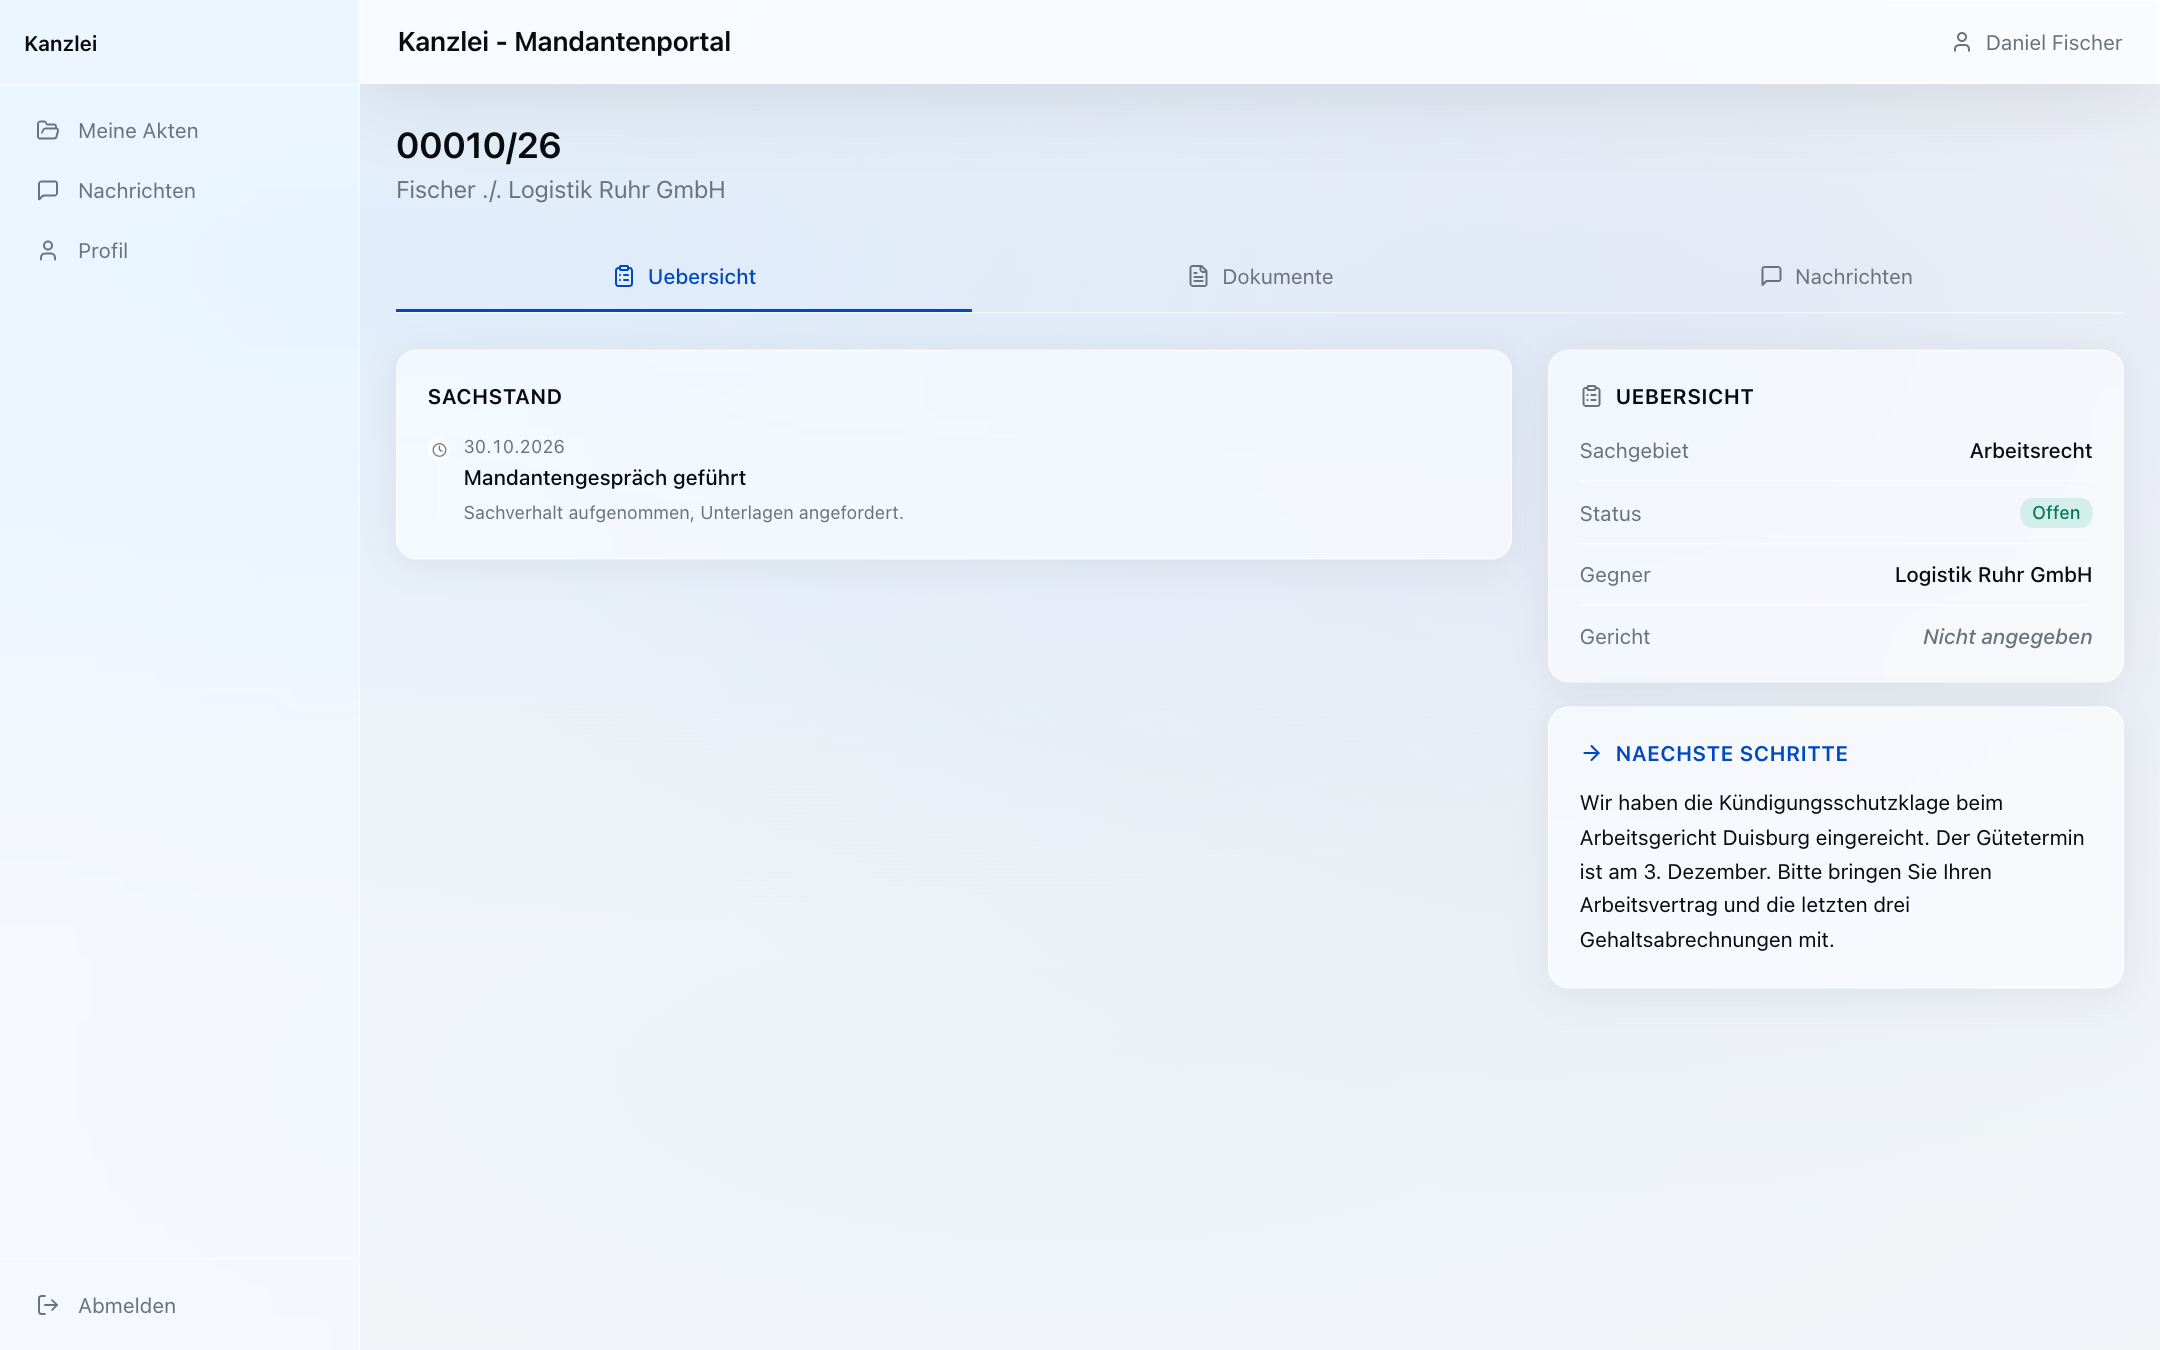
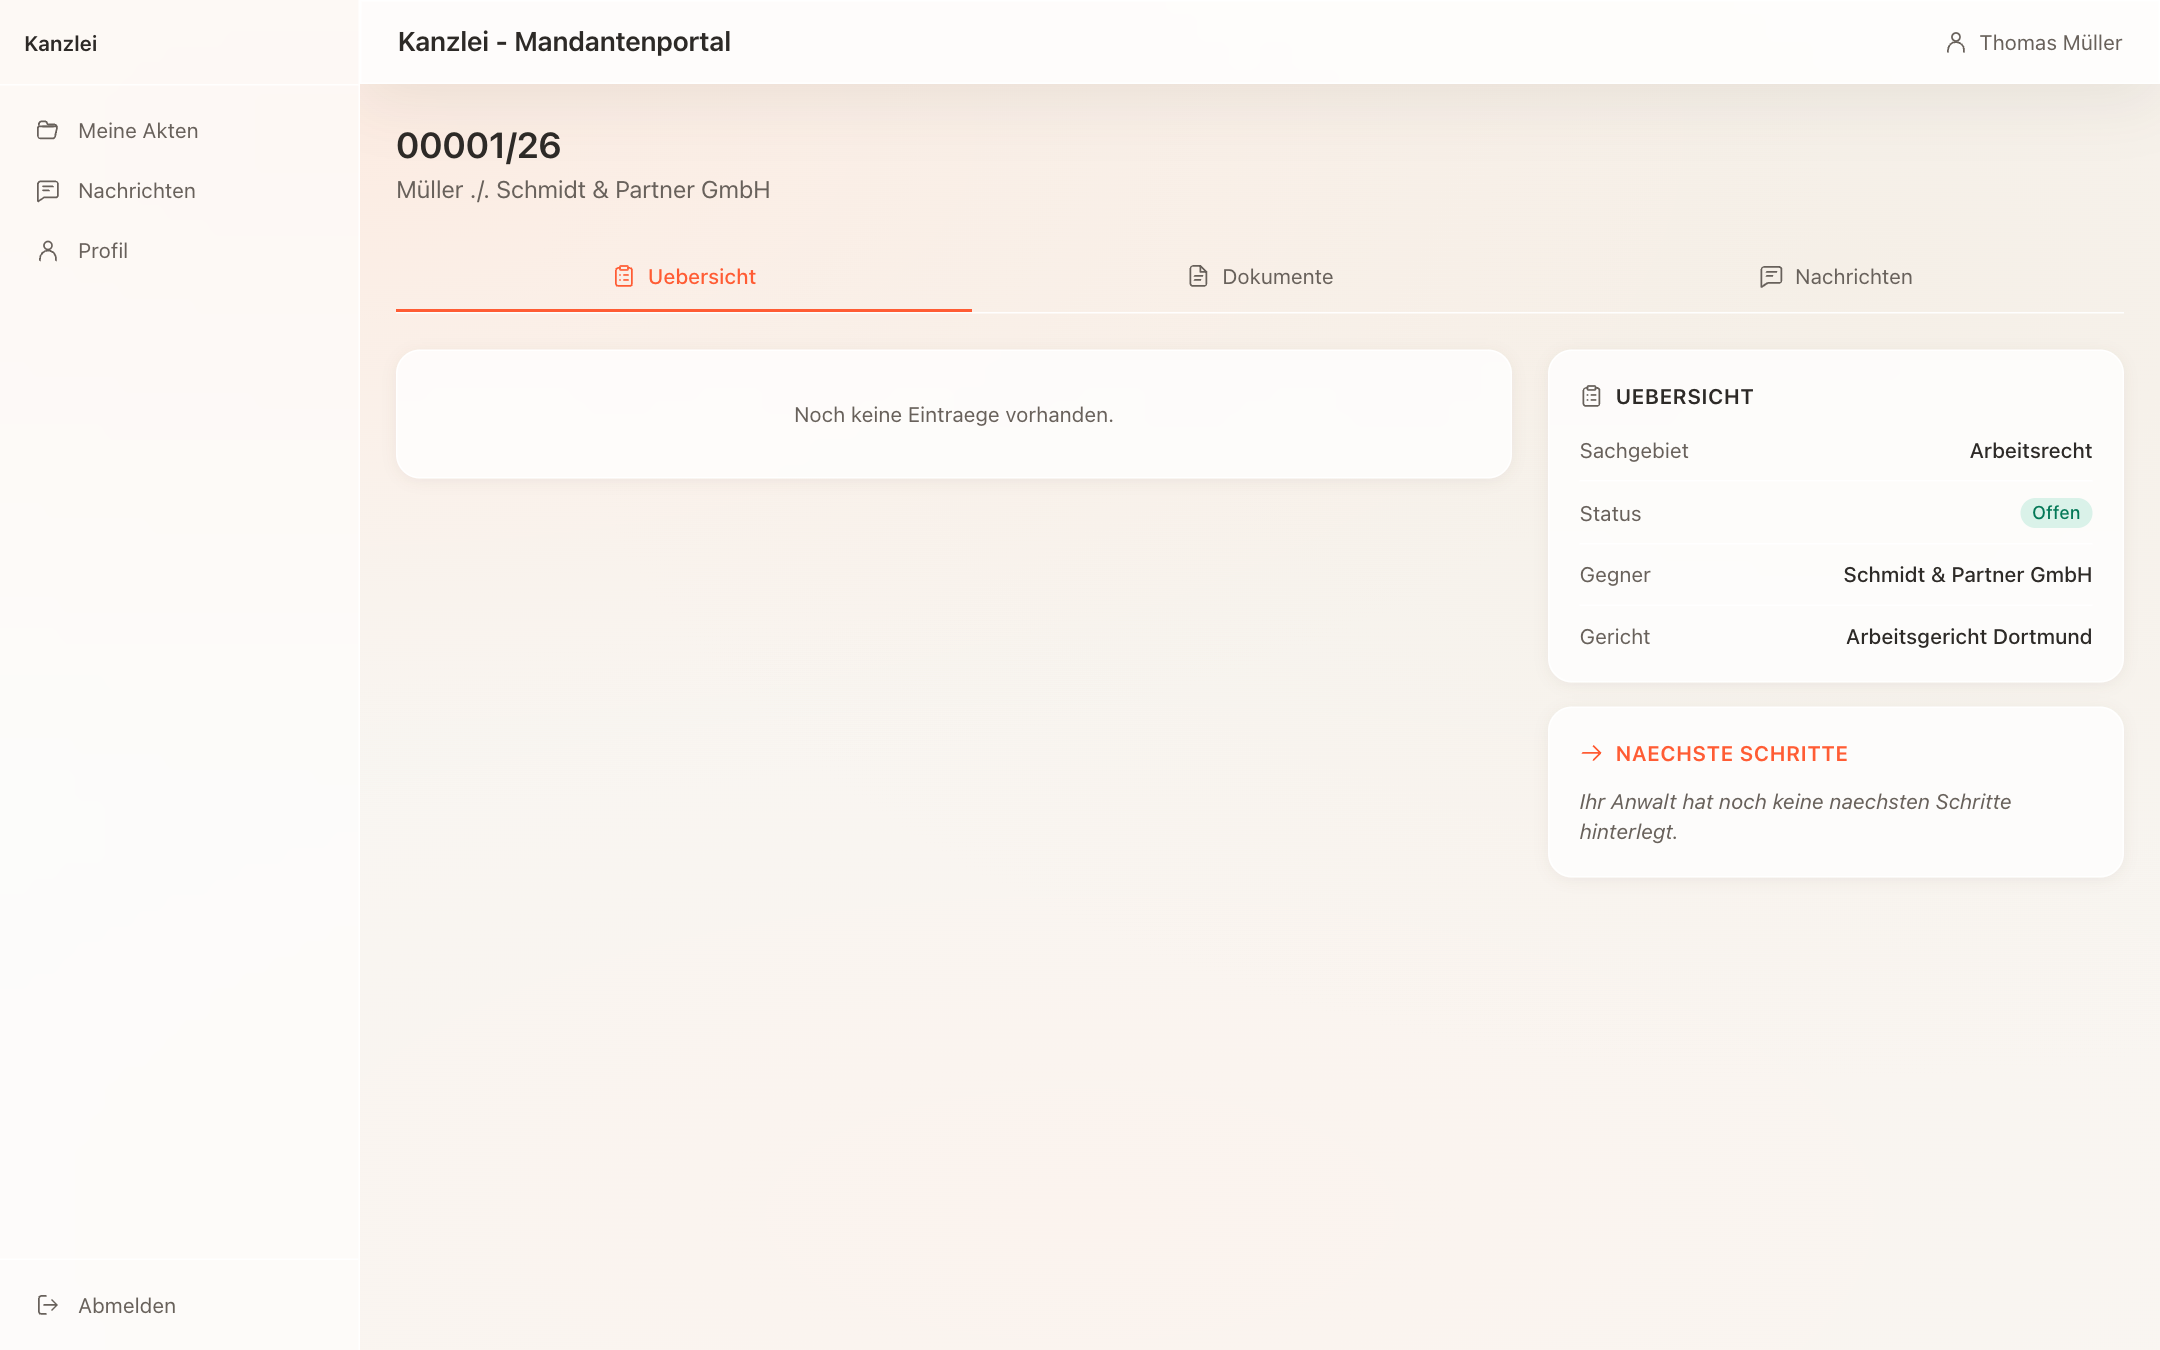
fix: keine Konsolenfehler mehr bei Anmeldung, Dashboard und Akte; Portal-Screenshot
- ThemeProvider fragt die gespeicherte Theme-Einstellung erst in der
  Kanzleioberfläche ab (pfadabhängig, auch nach Anmeldung ohne Neuladen);
  auf /login und im Portal entfiel ein 401/403 je Seitenaufruf.
- /api/gamification/dashboard antwortet bei abgeschalteter Gamification mit
  { enabled: false } statt 404; das Quest-Widget rendert dann nichts.
- Akten-Timer: Der Effekt hing am Session-Objekt, dessen Identität sich bei
  jedem Abgleich ändert – das stoppte den Timer vorzeitig, obwohl man noch in
  der Akte war. Jetzt an der Benutzer-ID; gestoppt wird nur ein Timer, den die
  Akte selbst gestartet hat (vorher 404 beim Verlassen).
- docs/screenshots/portal-akte.png neu (Mandantenkonto über den echten
  Einladungsablauf in der Demo-Datenbank).

diff --git a/src/components/akten/akte-timer-bridge.tsx b/src/components/akten/akte-timer-bridge.tsx
@@ -1,6 +1,6 @@
 "use client";
 
-import { useEffect, useRef } from "react";
+import { useEffect } from "react";
 import { useSession } from "next-auth/react";
 
 interface AkteTimerBridgeProps {
@@ -19,35 +19,40 @@ interface AkteTimerBridgeProps {
  */
 export function AkteTimerBridge({ akteId }: AkteTimerBridgeProps) {
   const { data: session } = useSession();
-  const startedRef = useRef(false);
+  // Stable dependency: the session object changes identity on every refetch,
+  // which used to run the cleanup (stopping the timer) while still in the Akte.
+  const userId = session?.user?.id;
 
   useEffect(() => {
-    // Only fire once per mount, and only if authenticated
-    if (!session?.user || startedRef.current) return;
-    startedRef.current = true;
+    if (!userId) return;
 
-    // Fire-and-forget: start timer without awaiting
-    fetch("/api/finanzen/zeiterfassung/timer", {
+    // Fire-and-forget start; remember whether this bridge actually started a
+    // timer, so leaving the Akte never tries to stop a timer that does not
+    // exist (that ended in a 404 in the browser console).
+    const gestartet = fetch("/api/finanzen/zeiterfassung/timer", {
       method: "POST",
       headers: { "Content-Type": "application/json" },
       body: JSON.stringify({ akteId }),
-    }).catch(() => {
-      // Silently ignore errors -- timer start is best-effort
-    });
+    })
+      .then((r) => r.ok)
+      .catch(() => false);
 
     // Stop timer when leaving the Akte (unmount)
     return () => {
-      fetch("/api/finanzen/zeiterfassung/timer", {
-        method: "PATCH",
-        headers: { "Content-Type": "application/json" },
-        body: JSON.stringify({}),
-        // keepalive ensures the request completes even during page navigation
-        keepalive: true,
-      }).catch(() => {
-        // Best-effort stop
+      void gestartet.then((ok) => {
+        if (!ok) return;
+        fetch("/api/finanzen/zeiterfassung/timer", {
+          method: "PATCH",
+          headers: { "Content-Type": "application/json" },
+          body: JSON.stringify({}),
+          // keepalive ensures the request completes even during page navigation
+          keepalive: true,
+        }).catch(() => {
+          // Best-effort stop
+        });
       });
     };
-  }, [akteId, session]);
+  }, [akteId, userId]);
 
   // This component renders nothing
   return null;

diff --git a/src/components/providers/theme-provider.tsx b/src/components/providers/theme-provider.tsx
@@ -1,6 +1,7 @@
 "use client";
 
-import { createContext, useContext, useEffect, useState, type ReactNode } from "react";
+import { createContext, useContext, useEffect, useRef, useState, type ReactNode } from "react";
+import { usePathname } from "next/navigation";
 
 type Theme = "light" | "dark" | "system";
 
@@ -24,15 +25,24 @@ export function ThemeProvider({ children }: { children: ReactNode }) {
   const [theme, setThemeState] = useState<Theme>("system");
   const [resolvedTheme, setResolvedTheme] = useState<"light" | "dark">("light");
 
-  // Load stored preference from API on mount
+  // Load the stored preference once the user is in the firm workspace. Not on
+  // the public sign-in pages and not in the client portal: there is no firm
+  // session, the request would only end in 401/403 (console error) and the
+  // portal stays light. Depends on the path because sign-in navigates to the
+  // dashboard without a full reload.
+  const pathname = usePathname();
+  const geladen = useRef(false);
   useEffect(() => {
+    if (geladen.current) return;
+    if (/^\/(login|2fa-setup-required|portal)(\/|$)/.test(pathname ?? "")) return;
+    geladen.current = true;
     fetch("/api/user/theme")
       .then((r) => (r.ok ? r.json() : null))
       .then((d) => {
         if (d?.theme) setThemeState(d.theme as Theme);
       })
       .catch(() => {});
-  }, []);
+  }, [pathname]);
 
   // Apply .dark class to <html> whenever theme state changes.
   // Persimmon CI-Contract §8: the light theme is the default and dark mode is

diff --git a/src/app/api/gamification/dashboard/route.ts b/src/app/api/gamification/dashboard/route.ts
@@ -4,8 +4,10 @@
  * Combined endpoint returning GameProfile (level, XP, Runen, streak)
  * plus quest progress grouped by type (daily, weekly, special).
  *
- * Returns 401 if not authenticated, 404 if user has gamificationOptIn=false.
- * Widget uses 404 to know user is opted out and render nothing.
+ * Returns 401 if not authenticated and { enabled: false } (200) if the user
+ * has gamificationOptIn=false; the widget then renders nothing. (Previously
+ * 404, which showed up as an error in the browser console on every dashboard
+ * load.)
  *
  * Quest filtering:
  * - Only universal (klasse=null) and user's class quests are returned
@@ -47,10 +49,7 @@ export async function GET() {
   });
 
   if (!user?.gamificationOptIn) {
-    return NextResponse.json(
-      { error: "Gamification nicht aktiviert" },
-      { status: 404 },
-    );
+    return NextResponse.json({ enabled: false });
   }
 
   // Get profile data

diff --git a/src/components/gamification/quest-widget.tsx b/src/components/gamification/quest-widget.tsx
@@ -75,13 +75,6 @@ export function QuestWidget() {
 
         if (cancelled) return;
 
-        // 404 = user opted out, render nothing
-        if (res.status === 404) {
-          setData(null);
-          setLoaded(true);
-          return;
-        }
-
         if (!res.ok) {
           console.error("QuestWidget: failed to load gamification data");
           setError(true);
@@ -89,8 +82,9 @@ export function QuestWidget() {
           return;
         }
 
-        const json: DashboardData = await res.json();
-        setData(json);
+        const json = (await res.json()) as DashboardData | { enabled: false };
+        // Opted out: render nothing
+        setData("enabled" in json && json.enabled === false ? null : (json as DashboardData));
         setLoaded(true);
       } catch {
         if (!cancelled) {
